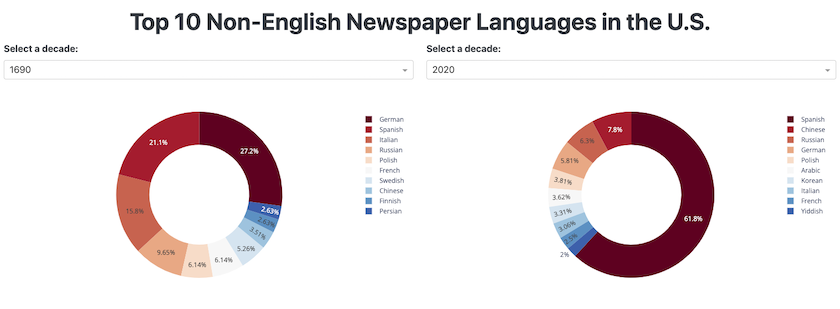
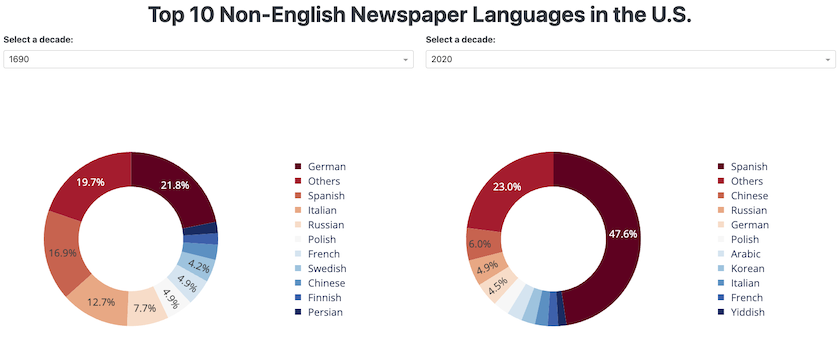
revise feb. 2025

diff --git a/app-rq2.py b/app-rq2.py
@@ -1,3 +1,10 @@
+#!/usr/bin/env python3
+# -*- coding: utf-8 -*-
+
+"""
+This script creates the RQ2 dashboard in the Programming Historian Lesson - "Creating a Dashboard for Interactive Data Visualization with Dash in Python."
+"""
+
 import pandas as pd
 import dash
 from dash import dcc
@@ -5,6 +12,11 @@ from dash import html
 from dash.dependencies import Input, Output
 import dash_bootstrap_components as dbc
 import plotly.express as px
+
+# Define a function to conditionally format the text
+# Don't show percentages on pie chart under 4%
+def format_text(pct):
+    return f'{pct:.1f}%' if pct >= 4 else ''
 
 lang_asrow = pd.read_csv("data/data_lang_asrow.csv", encoding="utf-8", index_col=[0])
 lang_asrow_noeng = lang_asrow.drop(['English'])
@@ -58,8 +70,26 @@ def generate_chart(year_left, year_right):
 
     df_left = df_left.rename(columns={"index": "Language", year_left: "Count"})
 
+    #df_left.head()
     fig_left = px.pie(df_left, values="Count", names="Language", hole=.6,
-                color_discrete_sequence=px.colors.sequential.RdBu)
+                color_discrete_sequence=px.colors.sequential.RdBu,
+                )
+    
+    fig_left.update_layout(
+        width=700,  
+        height=700,
+        legend=dict(font=dict(size=20),
+                    x=1.4,  
+                    y=0.5,  
+                    xanchor='left',  
+                    yanchor='middle'))
+    
+    fig_left.update_traces(
+    textinfo='percent',
+    texttemplate=[format_text(pct) for pct in df_left['Count'] / df_left['Count'].sum() * 100],
+    hovertemplate='%{label}<br>%{percent:.1%}<extra></extra>',
+    textfont=dict(size=20)
+    )
     
     df_right = lang_asrow_noeng[year_right].sort_values(ascending = False).reset_index().head(10)
     
@@ -69,6 +99,23 @@ def generate_chart(year_left, year_right):
     
     fig_right = px.pie(df_right, values="Count", names="Language", hole=.6,
                 color_discrete_sequence=px.colors.sequential.RdBu)
+    
+    fig_right.update_layout(
+        width=700,  
+        height=700,
+        legend=dict(font=dict(size=20),
+                    x=1.4,  
+                    y=0.5,  
+                    xanchor='left',
+                    yanchor='middle'))
+    
+    fig_right.update_traces(
+    textinfo='percent',
+    texttemplate=[format_text(pct) for pct in df_right['Count'] / df_right['Count'].sum() * 100],
+    textfont=dict(size=20),
+    hovertemplate='%{label}<br>%{percent:.1%}<extra></extra>',
+    )
+
     return fig_left, fig_right
 
 if __name__ == '__main__':

diff --git a/app.py b/app.py
@@ -1,3 +1,10 @@
+#!/usr/bin/env python3
+# -*- coding: utf-8 -*-
+
+"""
+This script creates the RQ1 dashboard in the Programming Historian Lesson - "Creating a Dashboard for Interactive Data Visualization with Dash in Python."
+"""
+
 import datetime
 import requests
 import pandas as pd
@@ -16,13 +23,19 @@ def to_df(queryurl):
   df = pd.read_csv(content_text)
   return df
 
+'''
 today = date.today()
 today_str = today.strftime("%Y%m%d")
 start_day = today - datetime.timedelta(365)
-start_day_str = start_day.strftime("%Y%m%d")
+start_day_str = start_day.strftime("%Y%m%d")'''
 
-query_url_ukr = f"https://api.gdeltproject.org/api/v2/tv/tv?query=(ukraine%20OR%20ukrainian%20OR%20zelenskyy%20OR%20zelensky%20OR%20kiev%20OR%20kyiv)%20market:%22National%22&mode=timelinevol&format=html&datanorm=perc&format=csv&timelinesmooth=5&datacomb=sep&timezoom=yes&STARTDATETIME={start_day_str}120000&ENDDATETIME={today_str}120000"
-query_url_rus = f"https://api.gdeltproject.org/api/v2/tv/tv?query=(kremlin%20OR%20russia%20OR%20putin%20OR%20moscow%20OR%20russian)%20market:%22National%22&mode=timelinevol&format=html&datanorm=perc&format=csv&timelinesmooth=5&datacomb=sep&timezoom=yes&STARTDATETIME={start_day_str}120000&ENDDATETIME={today_str}120000"
+
+start_day_str = '20211228'
+last_day_str = '20221231'
+
+
+query_url_ukr = f"https://api.gdeltproject.org/api/v2/tv/tv?query=(ukraine%20OR%20ukrainian%20OR%20zelenskyy%20OR%20zelensky%20OR%20kiev%20OR%20kyiv)%20market:%22National%22&mode=timelinevol&format=html&datanorm=perc&format=csv&timelinesmooth=5&datacomb=sep&timezoom=yes&STARTDATETIME={start_day_str}120000&ENDDATETIME={last_day_str}120000"
+query_url_rus = f"https://api.gdeltproject.org/api/v2/tv/tv?query=(kremlin%20OR%20russia%20OR%20putin%20OR%20moscow%20OR%20russian)%20market:%22National%22&mode=timelinevol&format=html&datanorm=perc&format=csv&timelinesmooth=5&datacomb=sep&timezoom=yes&STARTDATETIME={start_day_str}120000&ENDDATETIME={last_day_str}120000"
 
 df_ukr = to_df(query_url_ukr)
 df_rus = to_df(query_url_rus)
